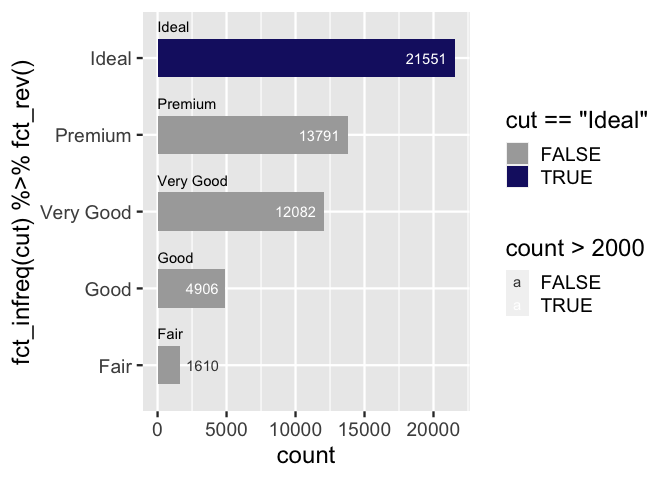
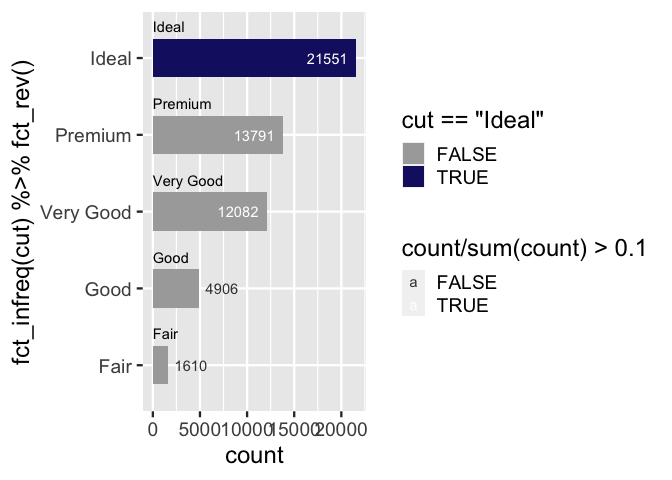
adding link to cedric's challenge

diff --git a/README.md b/README.md
@@ -513,6 +513,8 @@ ggplot(mtcars) +
 
 # Diamonds Challenge
 
+<https://www.linkedin.com/posts/cedscherer_yet-another-how-to-on-labelling-bar-graphs-activity-7123683350321504257-HBLB?utm_source=share&utm_medium=member_desktop>
+
 ## Moving axis labels attempt, but justification-margin dance seems very fragile…
 
 <https://stackoverflow.com/questions/55406829/ggplot-put-axis-text-inside-plot>
@@ -526,8 +528,8 @@ ggplot2::diamonds %>%
   coord_flip() + 
   stat_count(geom = "text", 
              aes(label = after_stat(count), 
-                 hjust = after_stat(ifelse(count>2000, 1.2, -.2)),
-                 color = after_stat(count>2000))) + 
+                 hjust = after_stat(ifelse(count/sum(count)>.3, 1.2, -.2)),
+                 color = after_stat(count/sum(count)>.3))) + 
   scale_color_manual(values = c("white", "grey25") %>% rev()) +
   scale_y_continuous(expand = expansion(mult = c(0, .1))) + 
   theme(axis.text.y = element_text(hjust = 0, vjust = -2.75,
@@ -538,6 +540,23 @@ ggplot2::diamonds %>%
 ```
 
 <img src="man/figures/README-unnamed-chunk-11-1.png" width="70%" />
+
+``` r
+
+layer_data(last_plot())
+#>           fill     y count prop x flipped_aes PANEL group ymin  ymax xmin xmax
+#> 1     darkgrey  1610  1610    1 1       FALSE     1     1    0  1610 0.75 1.25
+#> 2     darkgrey  4906  4906    1 2       FALSE     1     2    0  4906 1.75 2.25
+#> 3     darkgrey 12082 12082    1 3       FALSE     1     3    0 12082 2.75 3.25
+#> 4     darkgrey 13791 13791    1 4       FALSE     1     4    0 13791 3.75 4.25
+#> 5 midnightblue 21551 21551    1 5       FALSE     1     5    0 21551 4.75 5.25
+#>   colour linewidth linetype alpha
+#> 1     NA       0.5        1    NA
+#> 2     NA       0.5        1    NA
+#> 3     NA       0.5        1    NA
+#> 4     NA       0.5        1    NA
+#> 5     NA       0.5        1    NA
+```
 
 ## x position as direct label.
 
@@ -556,8 +575,8 @@ ggplot2::diamonds %>%
   coord_flip() + 
   stat_count(geom = "text", 
              aes(label = after_stat(count), 
-                 hjust = after_stat(ifelse(count>2000, 1.2, -.2)),
-                 color = after_stat(count>2000))) + 
+                 hjust = after_stat(ifelse(count/sum(count)>.1, 1.2, -.2)),
+                 color = after_stat(count/sum(count)>.1))) + 
   scale_color_manual(values = c("white", "grey25") %>% rev()) +
   stat_count(geom = "text", y = 0,
              aes(label = after_stat(x) %>% 
